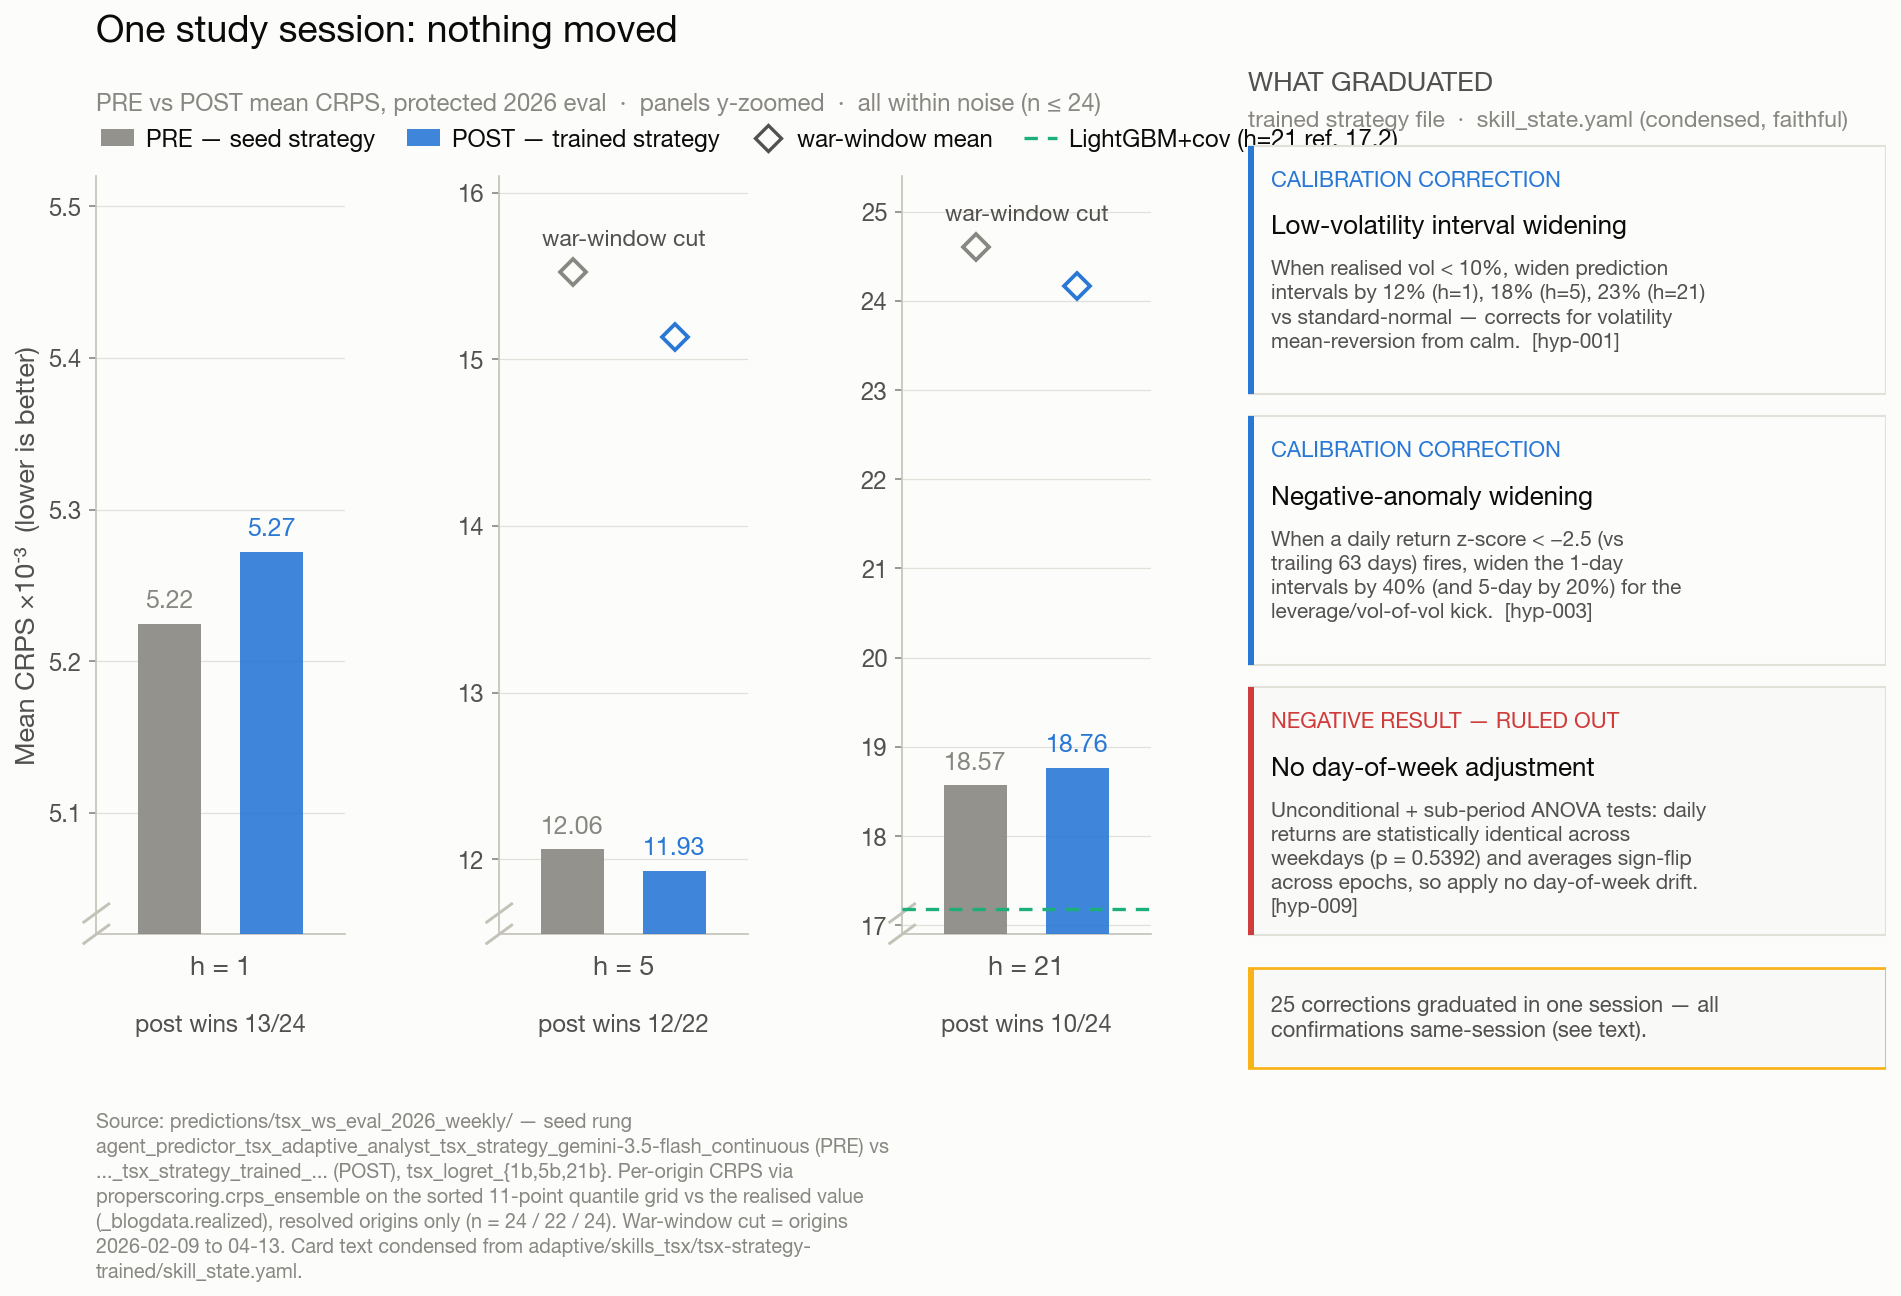
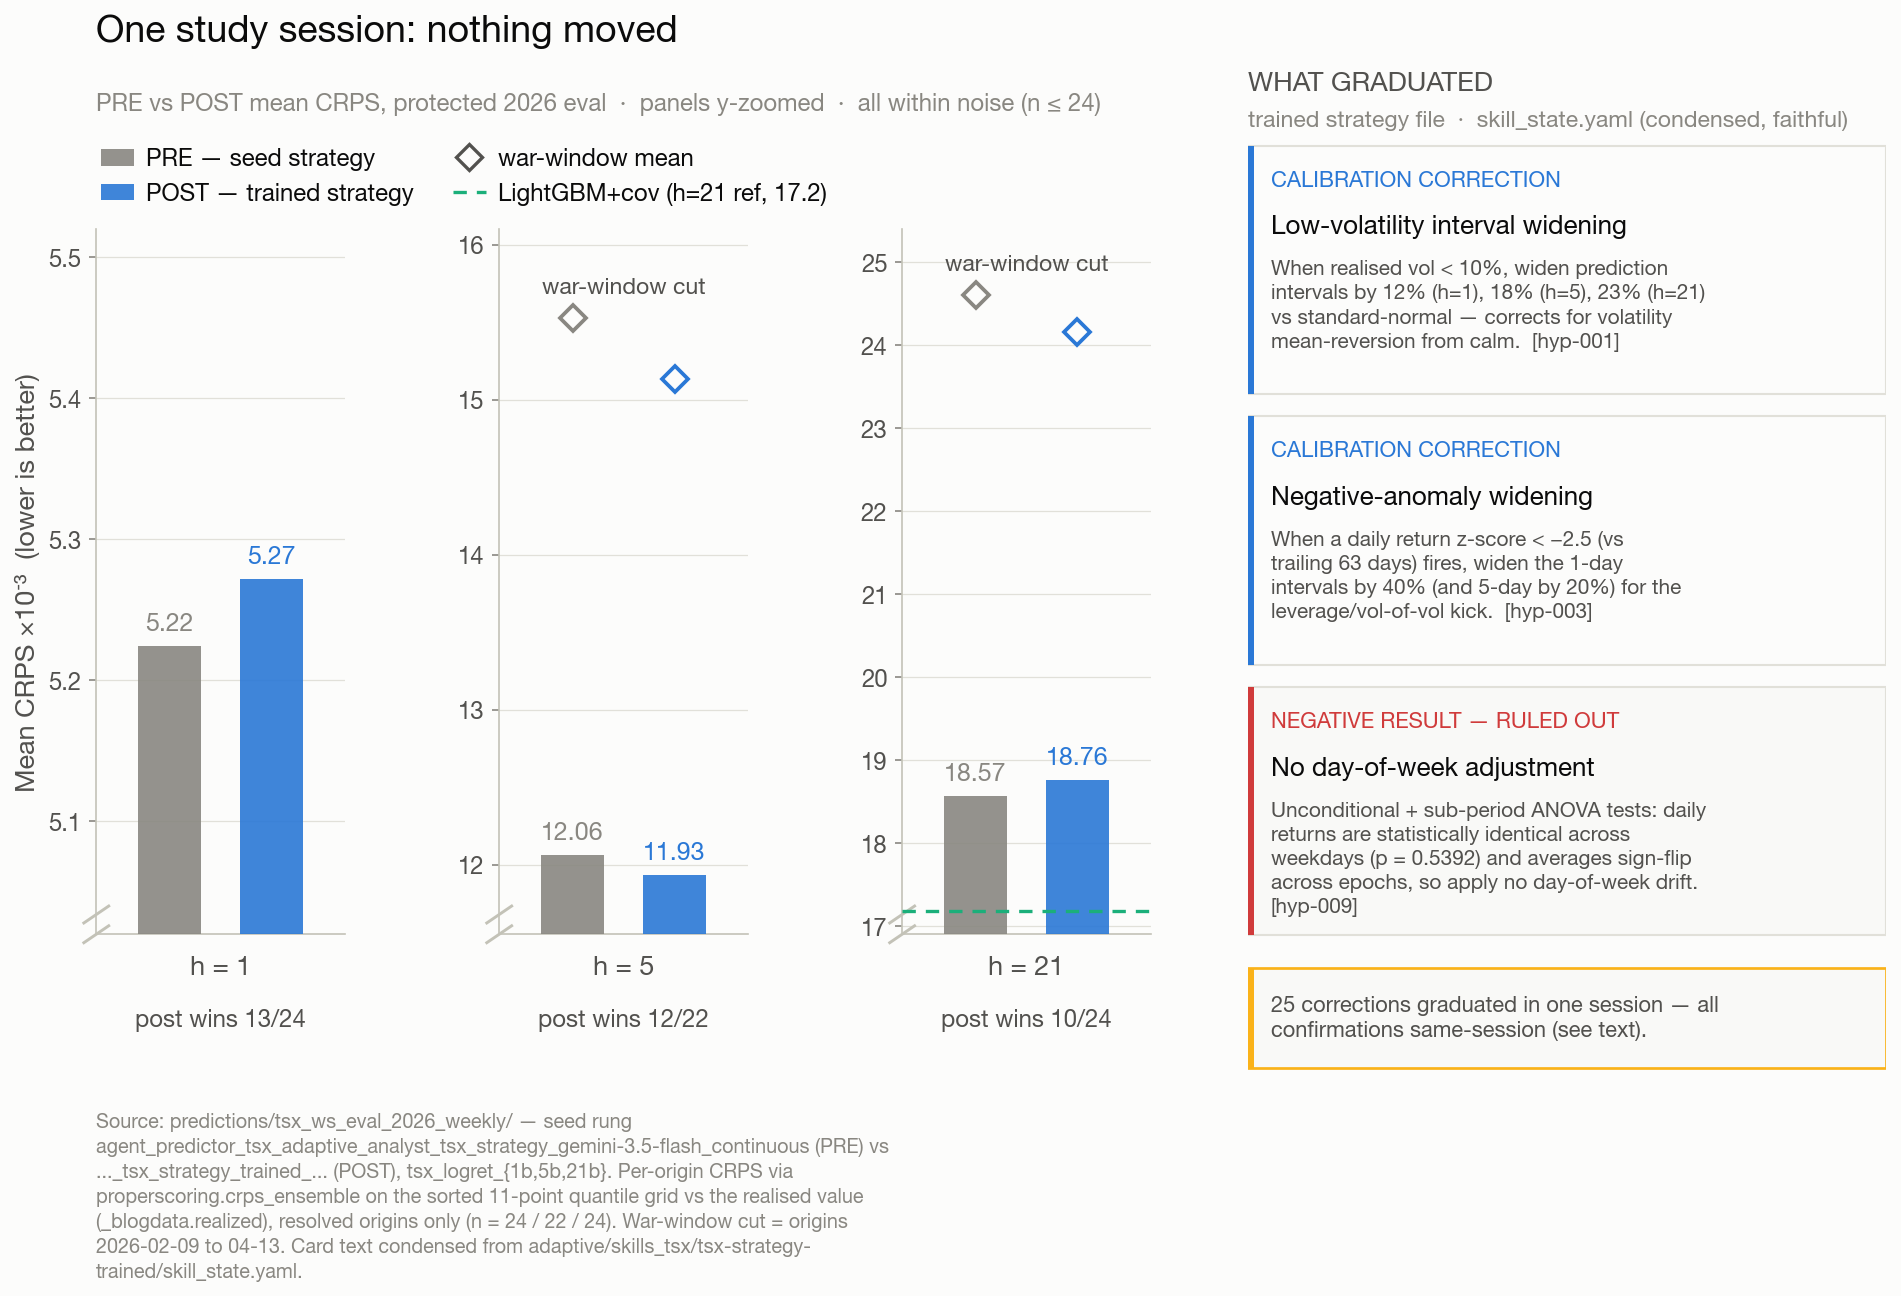
blog(fig4): 2-column legend so it stays clear of the right-hand cards
The 4-across legend ran the LightGBM+cov reference entry into the WHAT GRADUATED
card column at native resolution (Ethan caught it in the rendered page; my
1090px downscale hid the near-collision). Switched to a 2x2 legend confined to
the left panel block and lowered the panels slightly for headroom. Verified at
native resolution, not just downscaled. Layout-only; asserts unchanged.

diff --git a/blog/part-2/assets/fig4_adaptive_prepost.py b/blog/part-2/assets/fig4_adaptive_prepost.py
@@ -107,7 +107,7 @@ def main() -> None:
     fig = plt.figure(figsize=(12.9, 7.9))
     # Left three horizon panels and the right card are decoupled so the card can
     # use nearly the full height while the panels leave room for their labels.
-    gs_left = fig.add_gridspec(1, 3, left=0.06, right=0.605, top=0.845, bottom=0.205, wspace=0.62)
+    gs_left = fig.add_gridspec(1, 3, left=0.06, right=0.605, top=0.80, bottom=0.205, wspace=0.62)
     axes_h = [fig.add_subplot(gs_left[i]) for i in range(3)]
     axc = fig.add_axes([0.655, 0.075, 0.33, 0.86])
 
@@ -174,9 +174,11 @@ def main() -> None:
         _L2D([0], [0], color=bd.CAT["aqua"], lw=1.6, ls=(0, (4, 3)),
              label=f"LightGBM+cov (h=21 ref, {tree21 * 1000:.1f})"),
     ]
+    # Two columns × two rows keeps the legend inside the left panel block so it
+    # never runs into the right-hand "WHAT GRADUATED" cards.
     axes_h[0].legend(handles=handles, loc="lower left", fontsize=11.5, handlelength=1.4,
-                     bbox_to_anchor=(-0.02, 1.02), ncol=4, frameon=False,
-                     columnspacing=1.3, handletextpad=0.5, borderaxespad=0)
+                     bbox_to_anchor=(-0.02, 1.02), ncol=2, frameon=False,
+                     columnspacing=1.6, handletextpad=0.5, borderaxespad=0)
     fig.text(0.06, 0.958, "One study session: nothing moved", fontsize=18,
              fontweight="bold", color=bd.INK["primary"], ha="left")
     fig.text(0.06, 0.915,